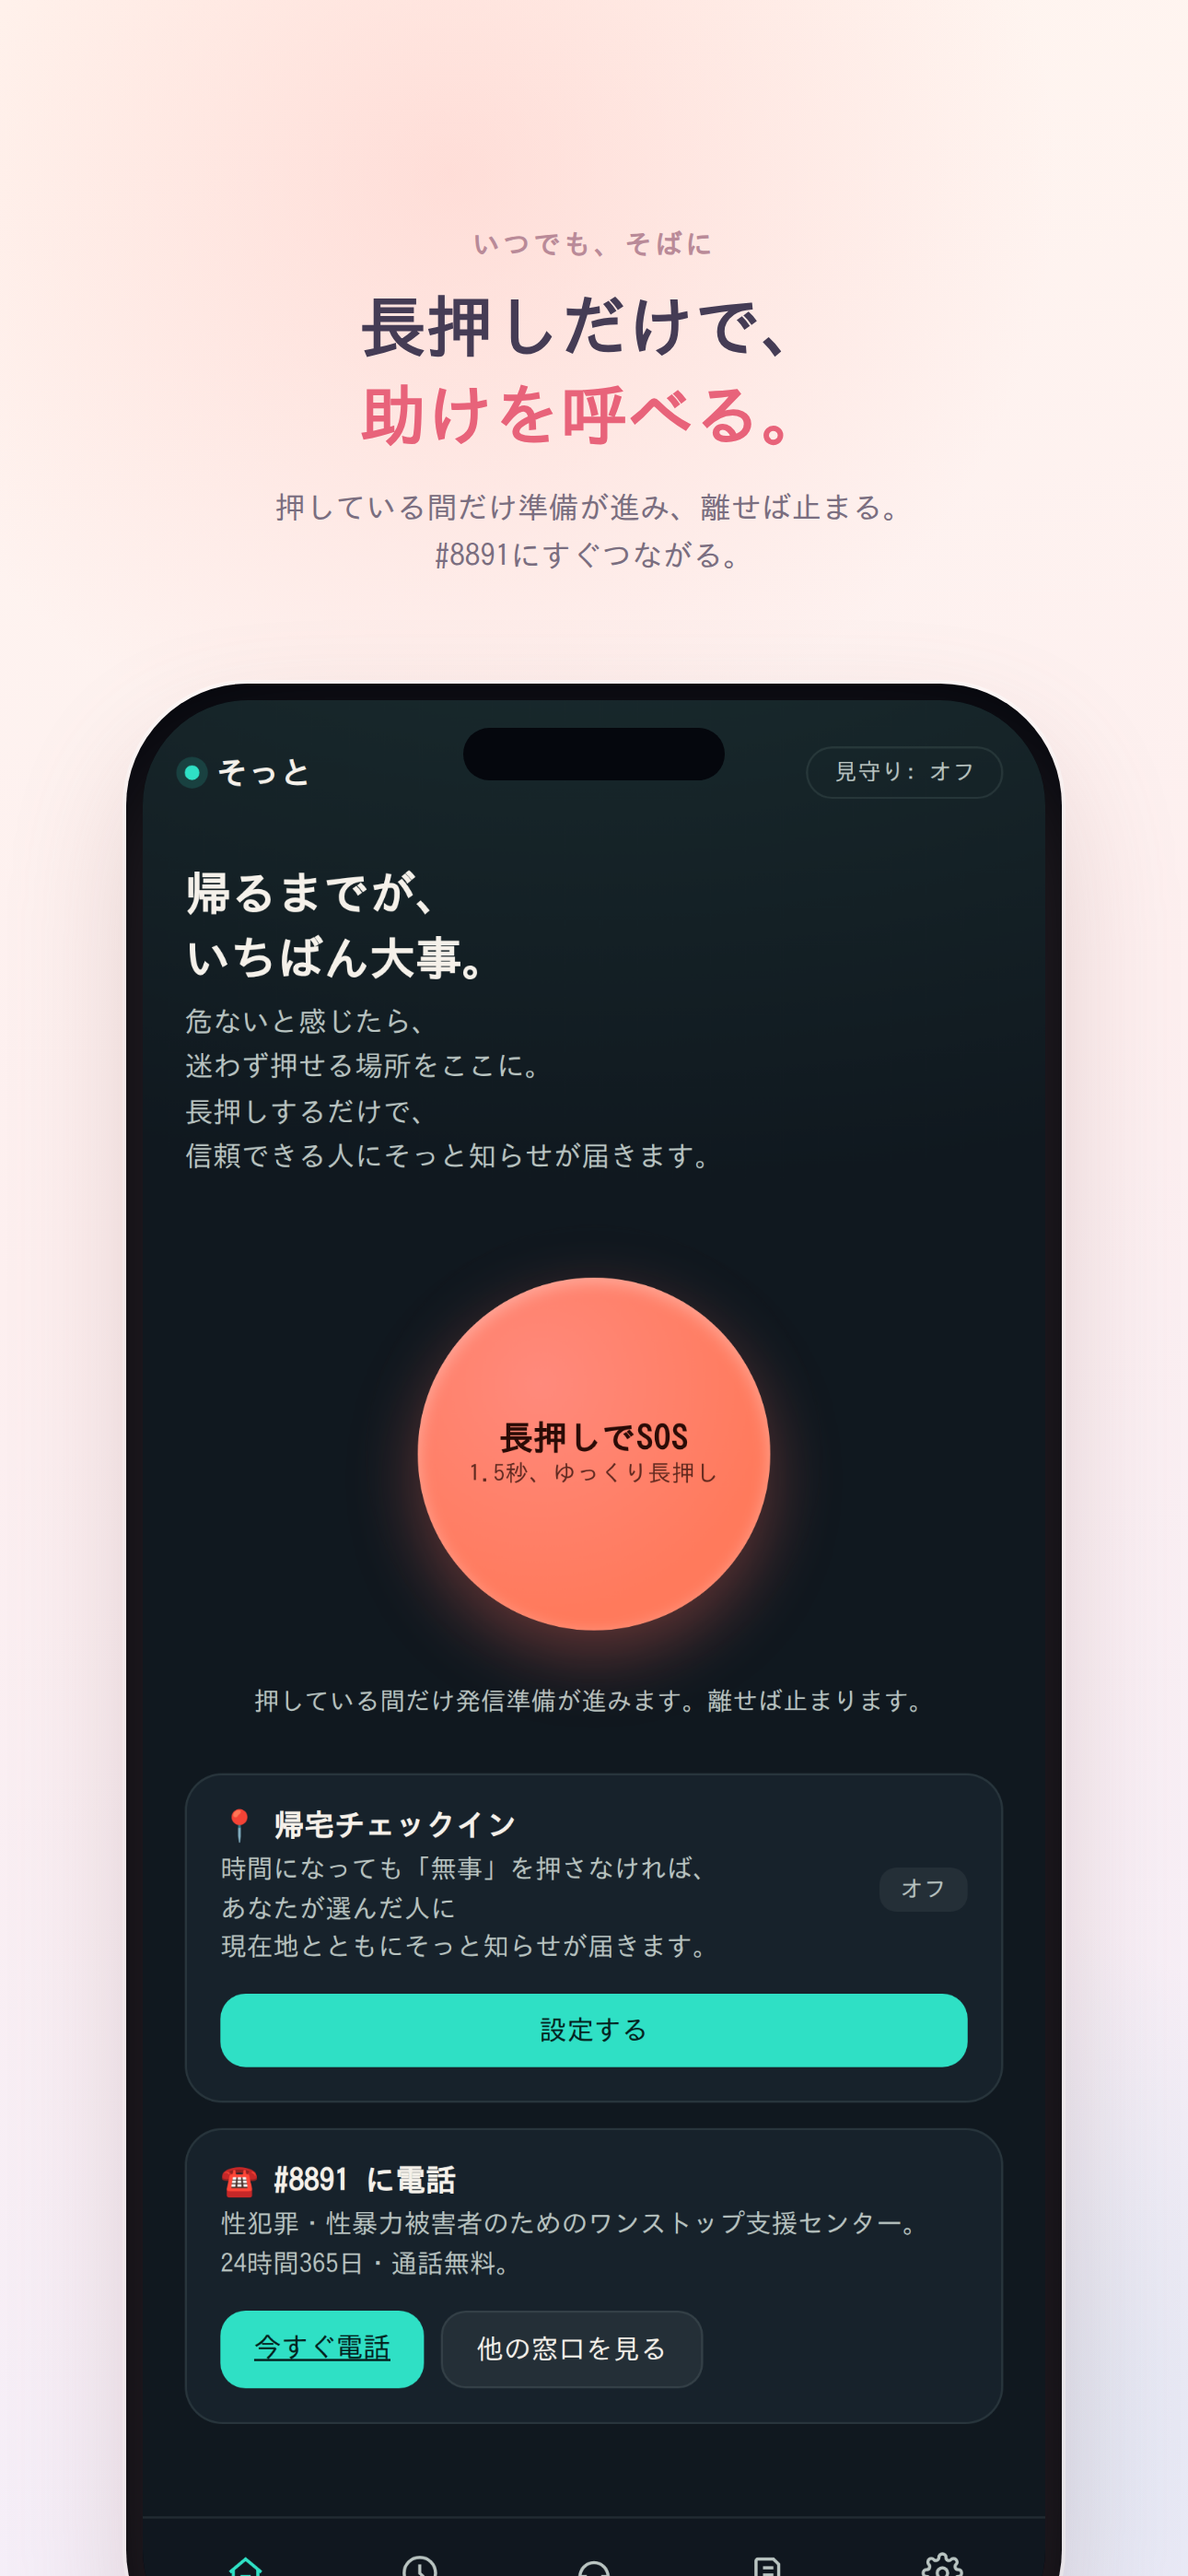
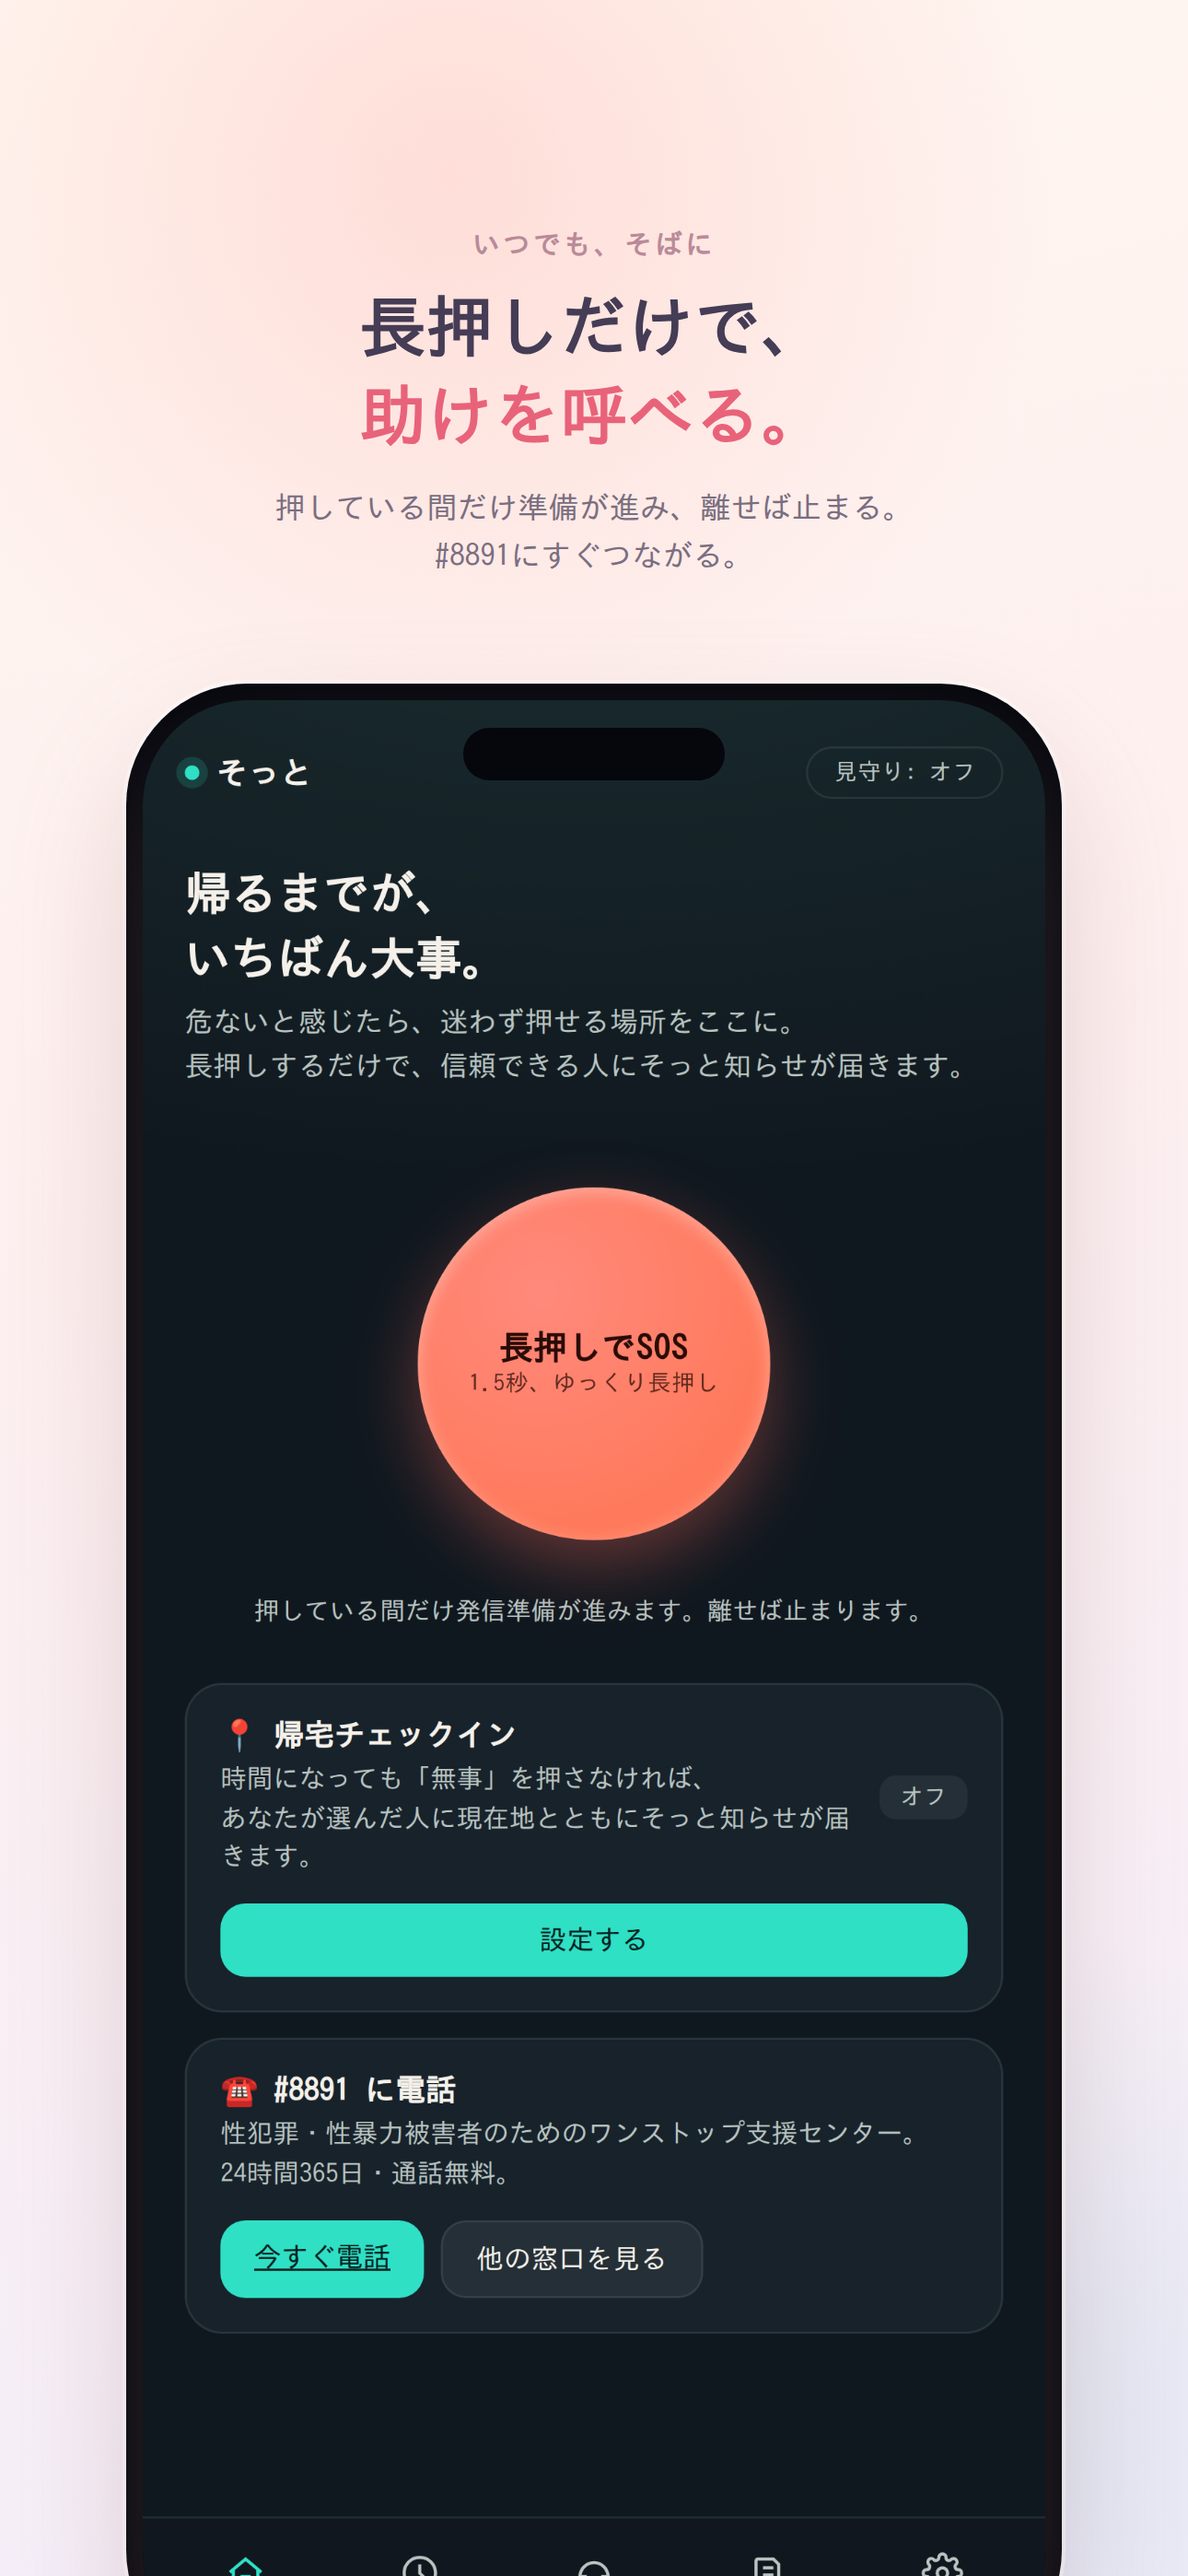
Balance line lengths instead of breaking at every clause
Breaking at every comma/period (previous commit) fixed mid-word wraps
but produced a ragged right edge — some lines 12 chars, others 29,
with no visual rhythm. Recomputed break points with a small DP that
packs clause-boundary tokens (never splitting mid-word) into lines
while minimizing the length spread between them, capped at ~30 chars
so no line still overflows the narrow in-app column. Net effect: fewer,
more even-length lines instead of one line per clause.

diff --git a/prototype/safeline.html b/prototype/safeline.html
@@ -453,7 +453,7 @@
   <!-- ================= HOME ================= -->
   <div class="screen active" id="screen-home">
     <h1 class="hero">帰るまでが、<br>いちばん大事。</h1>
-    <p class="hero-sub">危ないと感じたら、<br>迷わず押せる場所をここに。<br>長押しするだけで、<br>信頼できる人にそっと知らせが届きます。</p>
+    <p class="hero-sub">危ないと感じたら、迷わず押せる場所をここに。<br>長押しするだけで、信頼できる人にそっと知らせが届きます。</p>
 
     <div class="sos-wrap">
       <div class="sos-ring">
@@ -470,7 +470,7 @@
       <div class="card-row">
         <div>
           <div class="card-title">📍 帰宅チェックイン</div>
-          <div class="card-desc">時間になっても「無事」を押さなければ、<br>あなたが選んだ人に<br>現在地とともにそっと知らせが届きます。</div>
+          <div class="card-desc">時間になっても「無事」を押さなければ、<br>あなたが選んだ人に現在地とともにそっと知らせが届きます。</div>
         </div>
         <span class="chip off" id="checkinChip">オフ</span>
       </div>
@@ -531,7 +531,7 @@
   <!-- ================= RESOURCES ================= -->
   <div class="screen" id="screen-resources">
     <h1 class="hero">相談窓口</h1>
-    <p class="hero-sub">一人で抱え込まなくていい場所です。<br>年齢・性別を問わず相談できます。<br>あなたは悪くありません。</p>
+    <p class="hero-sub">一人で抱え込まなくていい場所です。<br>年齢・性別を問わず相談できます。あなたは悪くありません。</p>
 
     <a class="res-item card" href="tel:8891">
       <div class="card-title">#8891（はやくワンストップ）</div>
@@ -579,7 +579,7 @@
                 style="display:none; background:none; border:none; color:var(--teal); font-size:18px; cursor:pointer; padding:6px;"
                 title="書き出す">⇧</button>
       </div>
-      <p class="hero-sub">気になったこと、違和感、出来事の日時や状況を、<br>思い出せる範囲で少しずつ残せます。<br>暗号化してこの端末にだけ保存され、<br>クラウドには送りません。<br>誰にも見せなくて大丈夫です。<br>あなたのための記録です。</p>
+      <p class="hero-sub">気になったこと、違和感、出来事の日時や状況を、<br>思い出せる範囲で少しずつ残せます。<br>暗号化してこの端末にだけ保存され、クラウドには送りません。<br>誰にも見せなくて大丈夫です。あなたのための記録です。</p>
 
       <div class="field">
         <label>日時</label>

diff --git a/SafeLineiOS/SafeLine/Views/JournalView.swift b/SafeLineiOS/SafeLine/Views/JournalView.swift
@@ -86,7 +86,7 @@ struct JournalView: View {
                         }
                     }
                 }
-                Text("気になったこと、違和感、出来事の日時や状況を、\n思い出せる範囲で少しずつ残せます。\n暗号化してこの端末にだけ保存され、\nクラウドには送りません。\n誰にも見せなくて大丈夫です。\nあなたのための記録です。")
+                Text("気になったこと、違和感、出来事の日時や状況を、\n思い出せる範囲で少しずつ残せます。\n暗号化してこの端末にだけ保存され、クラウドには送りません。\n誰にも見せなくて大丈夫です。あなたのための記録です。")
                     .font(.system(size: 14.5, design: .rounded))
                     .foregroundColor(.safeTextDim)
 

diff --git a/SafeLineiOS/SafeLine/Views/CheckInView.swift b/SafeLineiOS/SafeLine/Views/CheckInView.swift
@@ -25,7 +25,7 @@ struct CheckInView: View {
                         .font(.system(size: 22, weight: .semibold, design: .rounded))
                         .foregroundColor(.safeText)
 
-                    Text("出かける前にセットしておくと、\n時間になっても「無事です」を押さなければ、\nあなたが選んだ人に\nそっと知らせが届きます。")
+                    Text("出かける前にセットしておくと、\n時間になっても「無事です」を押さなければ、\nあなたが選んだ人にそっと知らせが届きます。")
                         .font(.system(size: 14.5, design: .rounded))
                         .foregroundColor(.safeTextDim)
 

diff --git a/SafeLineiOS/SafeLine/Views/ResourcesView.swift b/SafeLineiOS/SafeLine/Views/ResourcesView.swift
@@ -11,7 +11,7 @@ struct ResourcesView: View {
                     Text("相談窓口")
                         .font(.system(size: 22, weight: .semibold, design: .rounded))
                         .foregroundColor(.safeText)
-                    Text("一人で抱え込まなくていい場所です。\n年齢・性別を問わず相談できます。\nあなたは悪くありません。")
+                    Text("一人で抱え込まなくていい場所です。\n年齢・性別を問わず相談できます。あなたは悪くありません。")
                         .font(.system(size: 14.5, design: .rounded))
                         .foregroundColor(.safeTextDim)
 
